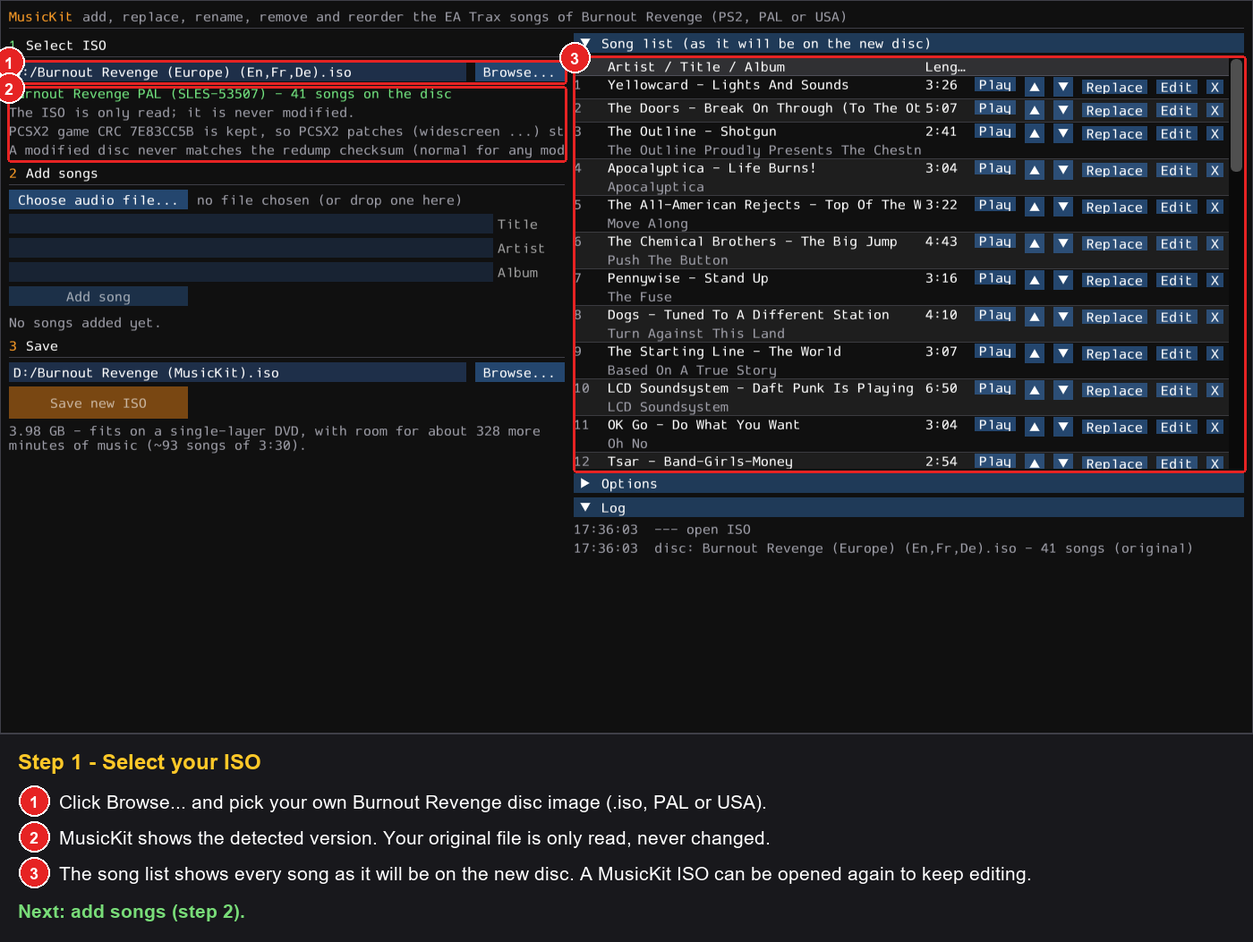
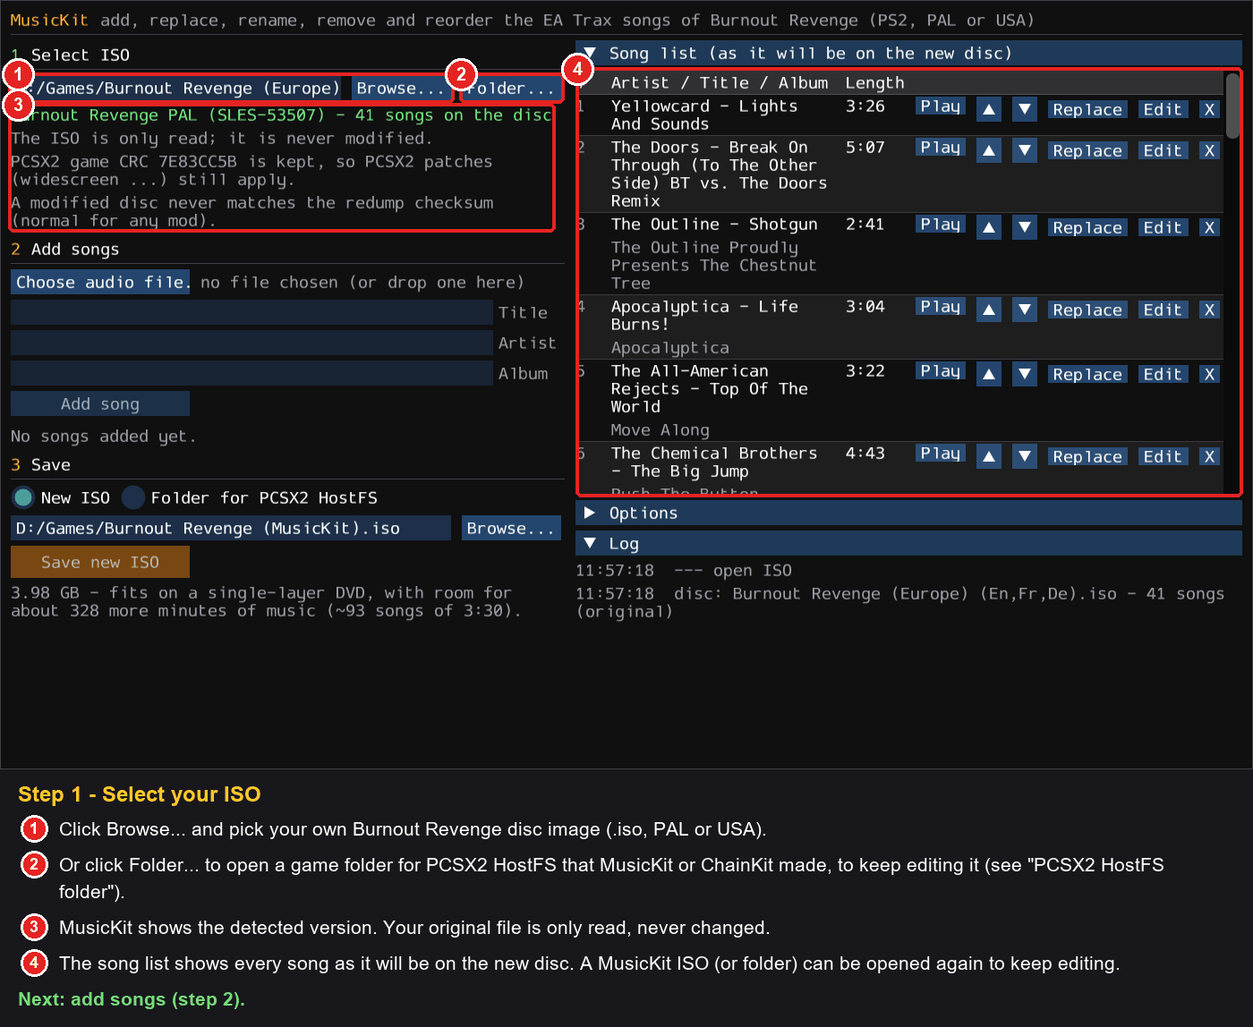
README: HostFS folder, combining mods, setup, new screenshots
- Install: Python 3.12-3.15 or none (private Python 3.13), what the setup does
- PCSX2 HostFS folder: save step by step, Play it in PCSX2 (Nahelam's patches,
  pnach names), combining mods, folders made by other tools
- Screenshots re-made for the current window (Folder..., output choice,
  HostFS before/after saving) and PCSX2 settings for HostFS

Changed region(s): [[0.0, 0.0, 1.0, 0.6078], [0.0, 0.7597, 0.9214, 1.0]]

diff --git a/README.md b/README.md
@@ -11,10 +11,13 @@ the original ones included.
 - Works with your own disc image of **Burnout Revenge for PlayStation 2**:
   - Europe / PAL — `SLES-53507`
   - USA / NTSC — `SLUS-21242`
-- Your original image is **only read, never modified**; MusicKit writes a **new** `.iso`.
-- Songs: MP3, FLAC, WAV, OGG, M4A … (anything ffmpeg can read), up to 95 songs in total.
-- Add, replace, rename, remove and reorder songs — and reopen an image MusicKit made to keep editing it.
+- Your original image is **only read, never modified**; MusicKit writes a **new** `.iso` — or, for PCSX2, saves
+  into a **game folder** ([PCSX2 HostFS](#pcsx2-hostfs-folder-no-new-iso)), where later changes take seconds.
+- Songs: MP3, FLAC, WAV, OGG, M4A … (anything ffmpeg can read), up to **95 songs** in total.
+- Add, replace, rename, remove and reorder songs — and reopen an image (or folder) MusicKit made to keep editing it.
 - Optional: **Allow switching any song OFF** in the game's Song Manager (see [below](#allow-switching-any-song-off)).
+- Works together with [ChainKit](https://github.com/Bondimm/burnout-revenge-chainkit), **in either order** (see
+  [Combining mods](#combining-mods)).
 - The new image keeps the game's PCSX2 CRC (`7E83CC5B` PAL, `D224D348` USA), so **PCSX2 still recognises the game
   and applies its patches** (widescreen etc.).
 - **Tested in PCSX2:** adding songs with both the PAL and the USA version; replacing, renaming, removing and
@@ -33,12 +36,13 @@ the original ones included.
 ### Step 3 — Arrange the song list (optional)
 ![Step 3 - replace, rename, remove and reorder songs](docs/images/step3_song_list.png)
 
-### Step 4 — Save a new ISO
+### Step 4 — Save a new ISO (or a PCSX2 HostFS folder)
 ![Step 4 - save the new ISO](docs/images/step4_save.png)
 
 Before you save, MusicKit shows the size of the new image and how much more music still fits on a single-layer
 DVD (4.7 GB) — calculated from *your* image. If it would not fit, you see a warning; you can still save it (see
-[FAQ](#faq)).
+[FAQ](#faq)). For PCSX2 you can choose **Folder for PCSX2 HostFS** instead — see
+[PCSX2 HostFS folder](#pcsx2-hostfs-folder-no-new-iso).
 
 ### Step 5 — Play
 Load the new `.iso` in PCSX2 (or burn it / run it on your PS2) and open **Driver Details → EA Trax → Song Manager**.
@@ -49,9 +53,9 @@ Load the new `.iso` in PCSX2 (or burn it / run it on your PS2) and open **Driver
 
 ## Guides
 
-Nothing is written until you click **Save new ISO** — every change below is only collected in the song list
-(right side), which shows the soundtrack exactly as it will be on the new disc. **Undo all changes** goes back to
-the song list of the opened image.
+Nothing is written until you click **Save new ISO** (or **Save to folder**) — every change below is only collected
+in the song list (right side), which shows the soundtrack exactly as it will be on the new disc. **Undo all
+changes** goes back to the song list of the opened image.
 
 ### Add songs
 *Choose audio file…* (or drop files on the window), type title / artist / album, click **Add song**. New songs are
@@ -75,7 +79,8 @@ Use ▲ / ▼ to move a song. Moved songs are tagged *[was #N]* with their old p
 
 ### Reopen a MusicKit ISO and keep editing
 Select an image MusicKit made in step 1: its current song list is read back from the disc (added and replaced
-songs are recognised). Change it like any other image and save another **new** `.iso`.
+songs are recognised). Change it like any other image and save another **new** `.iso`. A HostFS folder is opened
+with **Folder...** instead and saved into itself.
 
 ### Allow switching any song OFF
 In the original game the Song Manager only lets you switch a song **OFF** after it has played to the end once —
@@ -98,25 +103,31 @@ you want and save your game.
 With PCSX2 you can also save your soundtrack into a **folder** instead of a new disc image. PCSX2's *Host
 Filesystem* then loads the game's files straight from that folder:
 
-- the first save copies the game's files from your ISO into the folder (once, about 2.5 GB);
+- the first save copies the game's files from your ISO into the folder (once, about 2.7 GB);
 - every later save only rewrites the files MusicKit changes (the song files, the song names and the game
   executable) — no new ISO each time, a save takes seconds;
-- there is no disc size limit in a folder.
+- there is no disc size limit in a folder;
+- **PCSX2 only** — a folder does not work on a real PS2.
 
-PCSX2 only (not a real PS2). The Criterion games need a small PCSX2 cheat to read from a folder:
+The Criterion games need a small PCSX2 cheat to read from a folder:
 **Nahelam's HostFS patches** ([PCSX2-HostFS-Patches](https://github.com/Nahelam/PCSX2-HostFS-Patches), folder
 [Criterion Games](https://github.com/Nahelam/PCSX2-HostFS-Patches/tree/main/Criterion%20Games)) — thanks to
 [Nahelam](https://github.com/Nahelam) for making them. MusicKit does not include that cheat; you download it once.
 
 ### Save into a folder
 1. Select your ISO in step 1 as usual and change the songs.
-2. In step 3 choose **Folder for PCSX2 HostFS** and pick an **empty folder** (or the folder of an earlier save).
+2. In step 3 choose **Folder for PCSX2 HostFS** and **Browse...** to an **empty folder** (or the folder of an
+   earlier save).
 3. Click **Save to folder**. MusicKit writes the game's files and a small boot image
-   `Burnout Revenge (HostFS).iso` into the folder (it holds only `SYSTEM.CNF` and the game executable and is rebuilt on
-   every save).
+   `Burnout Revenge (HostFS).iso` into the folder (it holds only `SYSTEM.CNF` and the game executable and is
+   rebuilt on every save).
+
+![Save into a PCSX2 HostFS folder](docs/images/hostfs_save.png)
 
 To change the songs again, open the folder in step 1 with **Folder...** (or click *Open this folder here* after
 saving) and save again — it is saved into itself. Your ISO is never changed.
+
+![After saving: open the folder again, and how to play it in PCSX2](docs/images/hostfs_saved.png)
 
 ### Play it in PCSX2 (once)
 1. Download the cheat for your version from
@@ -126,73 +137,89 @@ saving) and save again — it is saved into itself. Your ISO is never changed.
    - USA / NTSC (SLUS-21242): `SLUS-21242_D224D348_hostfs.pnach`
 
    Put it into PCSX2's `cheats` folder (PCSX2: *Tools → Open Data Directory*).
-2. Add your folder to PCSX2's game list (*Settings → Game List → Add...*, without recursive scan). It shows
-   `Burnout Revenge (HostFS).iso`.
+2. Add your folder to PCSX2's game list (*Settings → Game List → Add...*, without recursive scan). The game appears
+   as **Burnout Revenge**, only a few MB in size: that is the boot image `Burnout Revenge (HostFS).iso`.
 3. Right-click it → *Properties*: on the *Emulation* page switch on **Enable Host Filesystem**; on the *Cheats* page
    switch on **Enable Cheats** and tick **HostFS**.
-4. Start `Burnout Revenge (HostFS).iso`.
+4. Start it from the game list.
+
+![PCSX2: the folder in the game list, Enable Host Filesystem, Enable Cheats + HostFS](docs/images/pcsx2_hostfs.png)
 
 The game CRC stays the same, so PCSX2's widescreen patches and your other cheats still apply. MusicKit shows these
-steps after saving, too.
+steps after saving, too. As Nahelam notes, with the HostFS cheat the network configuration cannot be started from
+the game (save your network settings on the memory card first if you play online).
 
-As Nahelam notes, with the HostFS cheat the network configuration cannot be started from the game (save your network settings on the memory card first if you play online).
+- **Stop the game before you save** into its folder: the running game keeps its files open. On Windows MusicKit
+  then refuses to save (nothing is changed) and tells you why; restart the game after saving.
+- **Linux:** the game asks for its files in mixed letter case while the disc stores them in upper case. That only
+  works in a case-insensitive folder — on ext4 for example an empty folder with casefold switched on (`chattr +F`,
+  needs a file system created with casefold support). MusicKit warns when the folder is case-sensitive but still
+  lets you save and try. Windows and macOS (default file system) need nothing special.
 
-**Stop the game before you save** into its folder: the running game keeps its files open. On Windows MusicKit
-then refuses to save (nothing is changed) and tells you why; restart the game after saving.
+### Combining mods
 
-**Linux:** the game asks for its files in mixed letter case while the disc stores them in upper case. That only
-works in a case-insensitive folder — on ext4 for example an empty folder with casefold switched on (`chattr +F`,
-needs a file system created with casefold support). MusicKit warns when the folder is case-sensitive but still lets
-you save and try. Windows and macOS (default file system) need nothing special.
+- **MusicKit + ChainKit, in either order.** Save with one kit, then open *that* new ISO or folder in the other kit
+  and save there (a folder: step 1 **Folder...**, command line `--iso "<folder>"`). Saving again later in either
+  kit keeps the other kit's changes (songs, supercharge settings, pop-up texts, arrow). ChainKit's **PCSX2 cheat**
+  (instead of a ChainKit ISO or folder) works together with a MusicKit ISO or folder too.
+- **Saving again:** always open the folder (not your ISO) and save — only the changed files are rewritten.
+- **Your ISO into a folder that already has the game:** MusicKit replaces only its own changes from your ISO. If
+  another kit or mod changed the game executable there, MusicKit refuses (nothing is changed) and tells you to open
+  the folder instead — or pick an empty folder to start again from your ISO.
+- **Other mods are kept:** other people's file mods (replaced cars, textures, videos, extra files) are never
+  touched — MusicKit writes only the files it manages — and texts other mods changed in the game's text files
+  stay too. `validate` lists such files as notes, not as errors.
+- **PCSX2 cheats and patches** (widescreen etc.) keep working: the game CRC stays the same. The *HostFS* cheat is
+  only for the folder — **untick it** before you start a normal ISO of the same game (with it on, the ISO does not
+  start).
 
-### Other mods in the same folder
+<details>
+<summary><b>Folders made by other tools (7-Zip, Nahelam's guide) and what was tested</b></summary>
 
-- **MusicKit + ChainKit:** both kits save into the same folder, **in either order**: save with one kit, then open
-  the folder in the other kit (step 1, **Folder...**, or `--iso "<folder>"`) and save there. Saving again later
-  in either kit keeps the other kit's changes (songs, supercharge settings, pop-up texts, arrow).
-- **Saving your ISO into a folder that already has the game** replaces only MusicKit's own changes from your ISO.
-  When another kit or mod changed the game executable there, MusicKit refuses (nothing is changed) and tells you
-  to open the folder instead (or to pick an empty folder to start again from your ISO).
-- **Other people's file mods** (replaced cars, textures, videos, extra files) are never touched: MusicKit writes only
-  the files it manages. Texts other mods changed in the game's text files are kept too. `validate` lists such
-  files as notes, not as errors.
-- **PCSX2 cheats** (widescreen and other patches) keep working: the game CRC stays the same. The per-game
-  *HostFS* cheat is only for the folder — **untick it** before you start a normal ISO of the same game
-  (with it on, the ISO does not start).
-- ChainKit's **PCSX2 cheat** (instead of a ChainKit folder) works together with a MusicKit folder too.
-- **Folders made by other tools** work: a folder extracted with 7-Zip, or set up as in Nahelam's guide (your own ISO
-  inside the folder). Start `Burnout Revenge (HostFS).iso` then — your own ISO in the folder still starts the game's
-  original executable, without MusicKit's changes to it. MusicKit explains what to do when names still end in `;1`
-  (extract again with 7-Zip), when you picked the folder above the game's files, or when files are missing (an
-  unfinished extraction: save from your ISO into the folder and the missing files are copied).
+- A folder extracted with 7-Zip, or set up as in Nahelam's guide (your own ISO inside the folder), works. Start
+  `Burnout Revenge (HostFS).iso` then — your own ISO in the folder still starts the game's original executable,
+  without MusicKit's changes to it.
+- MusicKit explains what to do when names still end in `;1` (extract again with 7-Zip), when you picked the folder
+  above the game's files, or when files are missing (an unfinished extraction: save from your ISO into the folder
+  and the missing files are copied).
+- Tested in PCSX2 2.8 (Europe discs, Burnout Revenge also USA): songs that exist only in the folder play from the
+  folder in menus and races (the boot image holds only `SYSTEM.CNF` and the executable); MusicKit + ChainKit in
+  both orders with supercharge, arrows and SUPERCHARGE LOST, a memory card save and the widescreen patch; other
+  mods' files and texts stayed unchanged through every save.
 
-Tested in PCSX2 2.8 (Europe discs, Burnout Revenge also USA): songs that exist only in the folder play from the folder
-in menus and races (the boot image holds only `SYSTEM.CNF` and the executable); MusicKit + ChainKit in both orders
-with supercharge, arrows and SUPERCHARGE LOST, a memory card save and the widescreen patch; other mods' files and
-texts stayed unchanged through every save.
-
-Command line ([optional](#command-line-optional)): `build --iso "Burnout Revenge (Europe).iso" --folder "<folder>"`
-saves into a folder; `--iso "<folder>"` opens one (it is then saved into itself); `validate "<your ISO>" "<folder>"`
-checks a folder.
+</details>
 
 ## Requirements
 
 | What | Details |
 |---|---|
 | Operating system | Windows 10 or 11 (64-bit), macOS 14 Sonoma or newer (Apple Silicon or Intel), or 64-bit Linux (x86_64 or aarch64, glibc 2.28+; tested on Ubuntu 22.04 / 24.04) |
-| Python | any Python 3.12 or newer, or none at all — the setup picks an installed Python for which every package is available ready-made, or downloads a private Python 3.13 into the `.python` folder (no admin rights needed, about 100 MB) |
+| Python | Python 3.12 – 3.15 (64-bit), or none at all: the setup uses an installed Python for which every package is available ready-made, otherwise it downloads a private Python 3.13 into the `.python` folder (no admin rights needed, about 100 MB) |
 | Python packages | installed automatically by `setup.bat` / `setup.command` / `setup.sh` into a private `.venv`: numpy, numba, glfw, PyOpenGL, imgui-bundle, Pillow, soundfile, pyloudnorm, pycdlib, pytest (see [requirements.txt](requirements.txt)) |
 | ffmpeg | downloaded automatically by `setup.bat` / `setup.command` / `setup.sh` (or install it yourself: Windows `winget install Gyan.FFmpeg`, macOS `brew install ffmpeg`, Linux your package manager, e.g. `sudo apt install ffmpeg`) |
 | Graphics | any GPU with OpenGL 3.3 (for the MusicKit window) |
-| Disk space | about 5 GB free for the new disc image (~4.2 GB) plus ~1 GB for Python packages and ffmpeg |
+| Disk space | about 5 GB free for the new disc image (~4.2 GB) — or about 3 GB for a HostFS folder — plus ~1 GB for Python packages and ffmpeg |
 | The game | your own disc image (.iso) of Burnout Revenge for PS2: PAL `SLES-53507` or USA `SLUS-21242` |
 | Internet | only once, during `setup.bat` / `setup.command` / `setup.sh` |
 
+### What the setup does
+The setup scripts never compile anything and change nothing outside the MusicKit folder:
+
+1. They look for an installed 64-bit Python (3.12 – 3.15) and use the first one for which **every** package is
+   available ready-made, in a private environment `.venv`.
+2. If there is no Python, or none can install the packages (e.g. a brand-new Python 3.15 before the packages have
+   caught up), they download a **private Python 3.13** into the `.python` folder with
+   [uv](https://astral.sh/uv) (download checked against a checksum) and use that one.
+3. They get **ffmpeg** (an installed one is used when present).
+
+Run the setup again at any time: it updates the packages, or rebuilds `.venv` if it no longer works (e.g. after
+you removed the Python it was made with). `MUSICKIT_PRIVATE_PYTHON=1` makes it skip the installed Pythons.
+
 ## Installation (Windows 10 / 11)
 
-1. Optional: install **Python 3.12 or newer** from <https://www.python.org/downloads/> (tick *"Add python.exe to PATH"*).
-   Without it, or when your Python is too new for some packages (e.g. a fresh 3.15), `setup.bat` downloads a
-   private Python into the `.python` folder by itself.
+1. Optional: install **Python 3.12 – 3.15** from <https://www.python.org/downloads/> (tick *"Add python.exe to
+   PATH"*). Without it, `setup.bat` downloads a private Python by itself (see
+   [What the setup does](#what-the-setup-does)).
 2. Download this repository (green **Code** button → *Download ZIP*) and unpack it, or `git clone` it.
 3. Double-click **`setup.bat`** once. It creates a private Python environment in `.venv` and downloads
    **ffmpeg** into the `ffmpeg` folder (used to read MP3/FLAC/OGG/… files). Nothing is installed system-wide.
@@ -204,9 +231,9 @@ checks a folder.
 
 For Apple Silicon (M1 and newer) and Intel Macs with macOS 14 Sonoma or newer.
 
-1. Optional: install **Python 3.12 or newer** from <https://www.python.org/downloads/macos/> (or with
-   [Homebrew](https://brew.sh): `brew install python`). Without it, or when your Python is too new for some
-   packages, `setup.command` downloads a private Python into the `.python` folder by itself.
+1. Optional: install **Python 3.12 – 3.15** from <https://www.python.org/downloads/macos/> (or with
+   [Homebrew](https://brew.sh): `brew install python`). Without it, `setup.command` downloads a private Python by
+   itself (see [What the setup does](#what-the-setup-does)).
 2. Download this repository (green **Code** button → *Download ZIP*) and unpack it, or `git clone` it.
 3. Double-click **`setup.command`** once. It opens a Terminal window, creates a private Python environment in
    `.venv` and downloads **ffmpeg** into the `ffmpeg` folder (an ffmpeg installed with Homebrew is used instead
@@ -229,9 +256,9 @@ For Apple Silicon (M1 and newer) and Intel Macs with macOS 14 Sonoma or newer.
 For 64-bit Linux on x86_64 or aarch64 (glibc 2.28 or newer; Alpine / musl is not supported). Tested in CI on
 Ubuntu 22.04 and 24.04 (x86_64); other distributions (Debian, Fedora, Arch, openSUSE, Mint, ...) should work the same way.
 
-1. Install the system packages. Python is optional: `./setup.sh` uses an installed Python 3.12 or newer (on
-   Debian / Ubuntu with its separate `venv` package) and otherwise downloads a private Python into the `.python`
-   folder by itself:
+1. Install the system packages. Python is optional: `./setup.sh` uses an installed Python 3.12 – 3.15 (on
+   Debian / Ubuntu with its separate `venv` package) and otherwise downloads a private Python by itself (see
+   [What the setup does](#what-the-setup-does)):
    - Debian / Ubuntu / Mint: `sudo apt install python3 python3-venv python3-pip libgl1 libegl1 libxkbcommon0 zenity`
    - Fedora: `sudo dnf install python3 python3-pip mesa-libGL mesa-libEGL libxkbcommon zenity`
    - Arch / Manjaro: `sudo pacman -S python python-pip mesa libglvnd libxkbcommon zenity`
@@ -240,9 +267,9 @@ Ubuntu 22.04 and 24.04 (x86_64); other distributions (Debian, Fedora, Arch, open
      on KDE) is used for the file and folder dialogs; without it, the dialogs do not open. The GLFW and
      imgui-bundle wheels bring everything else. A sound player (`paplay`, `aplay` or `ffplay`) is used for previews.
 2. Download this repository (green **Code** button → *Download ZIP*) and unpack it, or `git clone` it.
-3. Open a terminal in the folder and run **`./setup.sh`** once. It creates a private Python environment in `.venv` and downloads **ffmpeg** into the `ffmpeg` folder (an ffmpeg installed with your package manager is used instead
-   when present).
-   Nothing is installed system-wide. If you get *"Permission denied"*, run `chmod +x *.sh` first.
+3. Open a terminal in the folder and run **`./setup.sh`** once. It creates a private Python environment in `.venv`
+   and downloads **ffmpeg** into the `ffmpeg` folder (an ffmpeg installed with your package manager is used instead
+   when present). Nothing is installed system-wide. If you get *"Permission denied"*, run `chmod +x *.sh` first.
    - If the ffmpeg download fails, install ffmpeg with your package manager (`sudo apt install ffmpeg`, `sudo dnf install ffmpeg`,
      `sudo pacman -S ffmpeg`), then run `./setup.sh` again.
 4. Start **`./MusicKit.sh`** and keep the terminal open while you use MusicKit. Settings and the log (`gui.log`) are kept in
@@ -283,7 +310,9 @@ something).
 | forget all pending changes | `reset` |
 | save the new image | `build --iso "Burnout Revenge (Europe).iso" --out "Burnout Revenge (MusicKit).iso"` |
 | … and allow switching any song OFF | add `--unlock-off` to `build` (also works without any other change) |
-| check a new image | `validate "Burnout Revenge (Europe).iso" "Burnout Revenge (MusicKit).iso"` |
+| save into a PCSX2 HostFS folder instead | `build --iso "Burnout Revenge (Europe).iso" --folder "<folder>"` |
+| change the songs of a folder again | `--iso "<folder>"` with `list`, `replace`, … and `build` (saved into itself) |
+| check a new image / a folder | `validate "Burnout Revenge (Europe).iso" "Burnout Revenge (MusicKit).iso"` · `validate "Burnout Revenge (Europe).iso" "<folder>"` |
 
 `remove` (without `-song`) removes a queued *new* song; `remove-song` removes a song from the disc.
 
@@ -297,8 +326,8 @@ also tells you whether the image fits on a single-layer DVD.
 image — it simply is not the original pressing anymore. It does not affect the game or PCSX2 patches: the game CRC
 (shown in PCSX2's game properties) stays the same.
 
-**Can I change the songs again later?** Yes. Open the image MusicKit made and add, replace, rename, remove or
-reorder songs; MusicKit reads the current song list back from that image.
+**Can I change the songs again later?** Yes. Open the image (or folder) MusicKit made and add, replace, rename,
+remove or reorder songs; MusicKit reads the current song list back from it.
 
 **Will my save game still work?** Yes. Adding songs, replacing audio and renaming keep every Song Manager setting
 where it is; new songs default to *ALL* (menus and races). Removing or moving songs shifts the saved settings of
@@ -306,13 +335,17 @@ positions 1–41 — see [Save games](#save-games-removing-or-reordering-songs).
 
 **How many songs can the disc have?** From 1 up to 95 songs in total.
 
-**My songs don't show up.** Make sure you started the *new* `.iso`. Added songs are at the end of the Song Manager
-list unless you moved them.
+**My songs don't show up.** Make sure you started the *new* `.iso` (or, for a folder, the `(HostFS).iso` with Host
+Filesystem and the HostFS cheat switched on). Added songs are at the end of the Song Manager list unless you moved
+them.
+
+**My normal ISO does not start any more.** The *HostFS* cheat is still ticked for this game: untick it in the
+game's *Properties → Cheats* (it is only for the folder).
 
 **Why does MusicKit warn that my image is too big to burn?** A normal (single-layer) DVD holds 4.7 GB. With a lot
 of added or long songs the new image can get bigger than that. It still works in emulators such as PCSX2, but it
 cannot be burned to a normal DVD for a real PS2 — remove or shorten songs until the warning is gone if you want
-to burn it.
+to burn it. A HostFS folder has no size limit.
 
 **I can't switch some original songs OFF.** That is how the original game works: a song can only be switched OFF
 after it has played to the end once. Songs added with MusicKit are never locked. To lift the lock for every song,
@@ -323,13 +356,15 @@ game CRC stays the same.
 
 - [Burnout 3: Takedown MusicKit](https://github.com/Bondimm/burnout3-takedown-musickit) — the same for Burnout 3: Takedown (PS2).
 - [Burnout Dominator MusicKit](https://github.com/Bondimm/burnout-dominator-musickit) — the same for Burnout Dominator (PS2).
-- [Burnout Revenge ChainKit](https://github.com/Bondimm/burnout-revenge-chainkit) — Burnout Dominator's supercharge and Burnout chain for Burnout Revenge (PS2).
+- [Burnout Revenge ChainKit](https://github.com/Bondimm/burnout-revenge-chainkit) — Burnout Dominator's supercharge and Burnout chain for Burnout Revenge (PS2); works together with this MusicKit.
 
 ## Thanks
 
 - porkuskorpz ([GitHub](https://github.com/porkuskorpz), [Reddit u/porkuskorpz](https://www.reddit.com/user/porkuskorpz/))
   for in-game testing and the detailed report that
   led to the *Allow switching any song OFF* option.
+- [Nahelam](https://github.com/Nahelam) for the
+  [PCSX2 HostFS patches](https://github.com/Nahelam/PCSX2-HostFS-Patches) that make the folder mode possible.
 
 ## Legal
 
@@ -346,7 +381,8 @@ game CRC stays the same.
 - **Bring your own game.** You need your own, legally obtained copy of Burnout Revenge and must create the disc
   image from it yourself. MusicKit does not bypass any copy protection; it only edits a copy of your own image.
 - **Do not share modified disc images.** Disc images contain the game, which is copyrighted by Electronic Arts.
-  Uploading or distributing them — modified or not — is not allowed.
+  Uploading or distributing them — modified or not — is not allowed. The same goes for HostFS game folders: they
+  hold the game's files.
 - **Music rights.** Songs belong to their artists and labels. Only add music you are allowed to use, keep your
   modified image for personal use, and do not distribute images or files that contain other people's music.
 - **No warranty.** The software is provided "as is", without warranty of any kind (see [LICENSE](LICENSE)).
